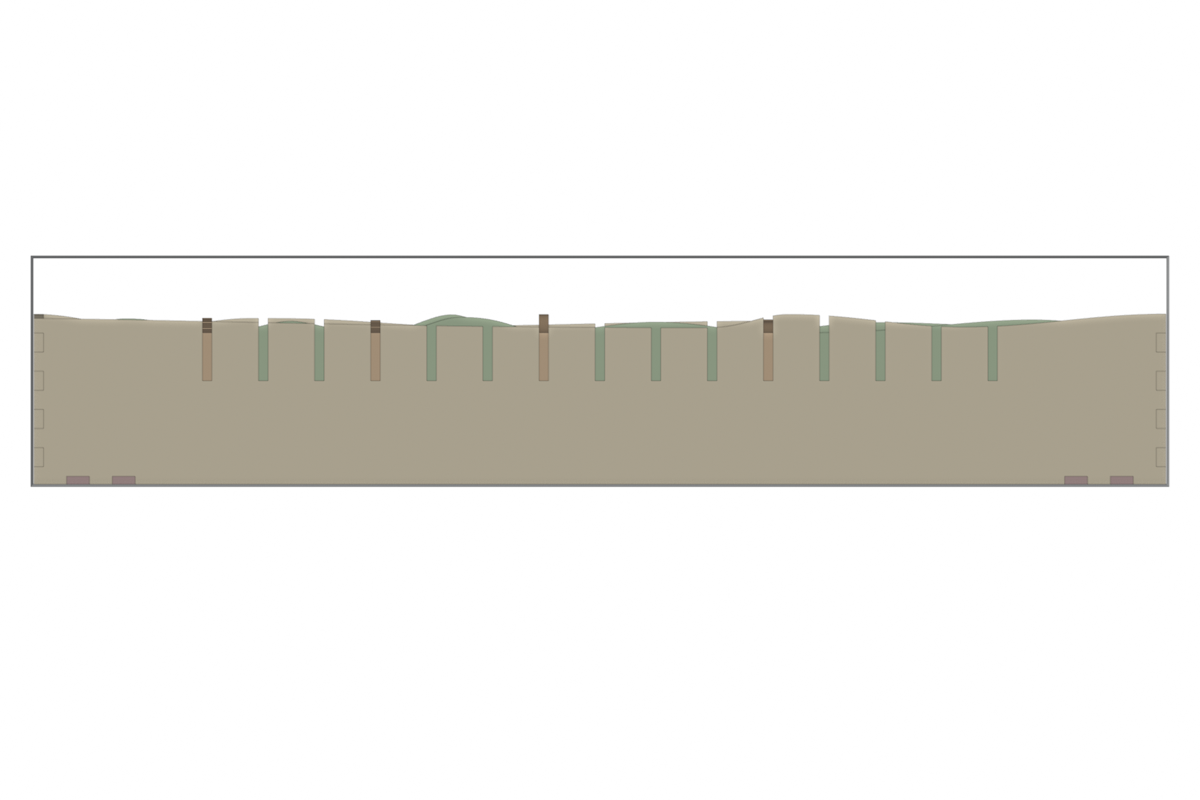
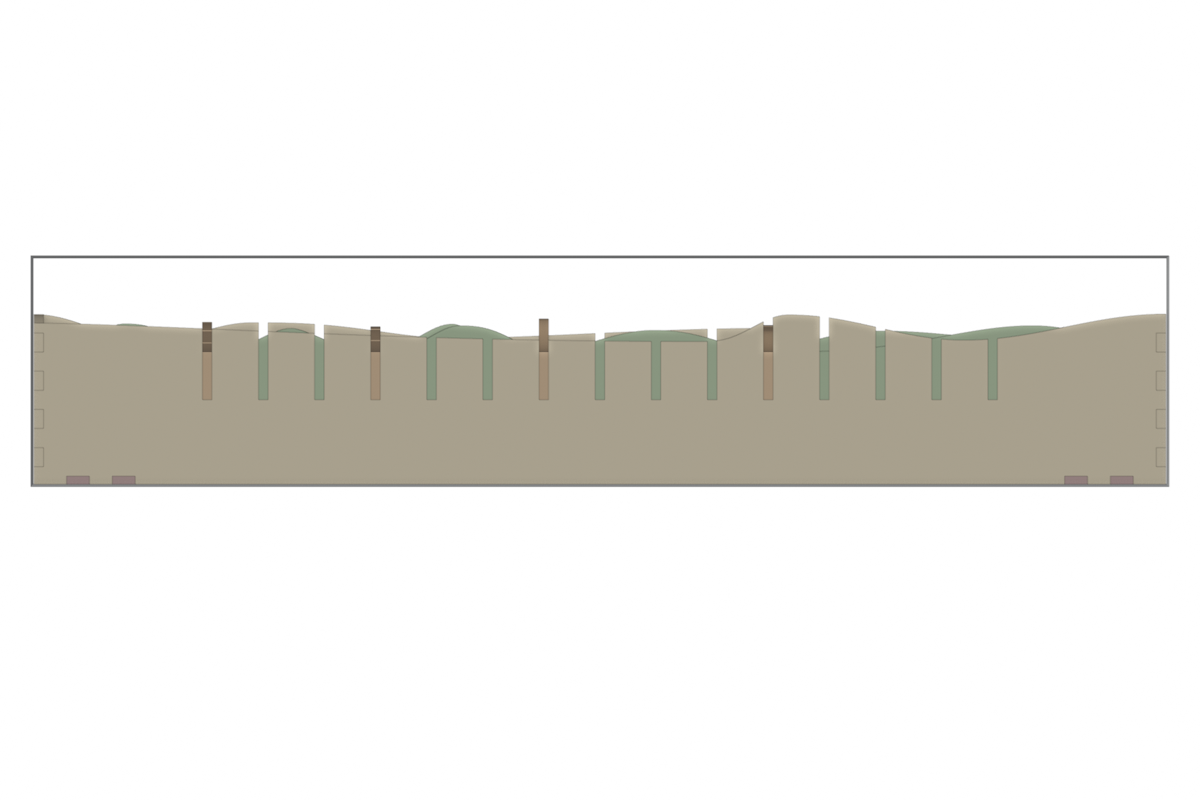
Drawer organizer: 1 in swing (tops 3.5 to 4.5) with a 30 degree slope cap
Claude-Session: https://claude.ai/code/session_01LZycd3S2pwbAJV8HQ6xUfH

diff --git a/lasercut/wave.py b/lasercut/wave.py
@@ -7,13 +7,15 @@ comes out different.
 """
 from __future__ import annotations
 
+import math
 import random
 
 from lasercut.panel import Point, Profile
 
 
 def wander(length: float, anchors: list[Point], lo: float, hi: float,
-           wavelength: float, rng: random.Random, min_spacing: float | None = None) -> Profile:
+           wavelength: float, rng: random.Random, min_spacing: float | None = None,
+           max_slope: float = math.tan(math.radians(30))) -> Profile:
     """A wavy profile along [0, length] passing exactly through `anchors` (x, height),
     which must include x=0 and x=length.
 
@@ -22,7 +24,8 @@ def wander(length: float, anchors: list[Point], lo: float, hi: float,
     divided by `wavelength`, and their parity is picked so the edge always turns
     away from an anchor rather than sitting flat beside it. Positions are random
     with at least `min_spacing` between features (default a fifth of the wavelength,
-    at least 2), which is what keeps the slopes gentle.
+    at least 2). Finally heights are pulled together wherever a rise or fall would be
+    steeper than `max_slope`, so the edge stays gentle however bold the range.
     """
     anchors = sorted(anchors)
     if anchors[0][0] != 0.0 or anchors[-1][0] != length:
@@ -31,7 +34,9 @@ def wander(length: float, anchors: list[Point], lo: float, hi: float,
     mid = (lo + hi) / 2
     pts: list[Point] = []
     skews: list[float] = []
+    fixed: set[int] = set()
     for (xa, ha), (xb, hb) in zip(anchors, anchors[1:]):
+        fixed.add(len(pts))
         pts.append((xa, ha))
         span = xb - xa
         first_high = ha < mid                    # turn away from the anchor
@@ -47,8 +52,44 @@ def wander(length: float, anchors: list[Point], lo: float, hi: float,
             h = rng.uniform(lo + 0.55 * (hi - lo), hi) if high else rng.uniform(lo, lo + 0.45 * (hi - lo))
             pts.append((x, h))
         skews += [rng.uniform(0.7, 1.45) for _ in range(n + 1)]
+    fixed.add(len(pts))
     pts.append(anchors[-1])
+    _limit_slopes(pts, skews, fixed, max_slope)
     return Profile(pts, skews)
+
+
+def peak_slope_factor(skew: float) -> float:
+    """How much steeper a skewed cosine segment gets at its steepest point than its
+    average slope. It is pi/2 for a symmetric segment and rises with the skew."""
+    best = 0.0
+    for i in range(1, 400):
+        u = i / 400
+        best = max(best, skew * u ** (skew - 1) * math.sin(math.pi * u ** skew))
+    return best * math.pi / 2
+
+
+def _limit_slopes(pts: list[Point], skews: list[float], fixed: set[int], max_slope: float) -> None:
+    """Pull neighbouring heights together until no segment is steeper than
+    `max_slope` at its steepest point. Anchors (indices in `fixed`) never move."""
+    factors = [peak_slope_factor(g) for g in skews]
+    for _ in range(20):
+        changed = False
+        for i in range(len(pts) - 1):
+            (x0, h0), (x1, h1) = pts[i], pts[i + 1]
+            excess = abs(h1 - h0) - max_slope / factors[i] * (x1 - x0)
+            if excess <= 1e-9 or (i in fixed and i + 1 in fixed):
+                continue
+            changed = True
+            sign = 1.0 if h1 > h0 else -1.0
+            if i in fixed:
+                pts[i + 1] = (x1, h1 - sign * excess)
+            elif i + 1 in fixed:
+                pts[i] = (x0, h0 + sign * excess)
+            else:
+                pts[i] = (x0, h0 + sign * excess / 2)
+                pts[i + 1] = (x1, h1 - sign * excess / 2)
+        if not changed:
+            return
 
 
 def _spread(xa: float, xb: float, n: int, spacing: float, rng: random.Random) -> list[float]:

diff --git a/projects/drawer-organizer/test_design.py b/projects/drawer-organizer/test_design.py
@@ -28,8 +28,8 @@ def test_pitch_snaps_so_wall_cells_match_divider_cells(design):
 
 
 def test_egg_crate_notches_are_complementary(design):
-    assert design.ear_top == 4.0 and design.slot_floor == 2.75
-    assert design.top_notch_depth == 1.75
+    assert design.ear_top == 3.5 and design.slot_floor == 2.25
+    assert design.top_notch_depth == 2.25
     assert design.top_notch_depth + design.bottom_notch_depth == design.height
 
 
@@ -49,7 +49,8 @@ def test_wavy_tops_follow_the_joint_rule(design):
                 round(walls["wall_back"](0), 6), round(walls["wall_back"](W), 6)}) == 4
     for w in by_kind["wall"]:
         f = w.outline.top_profile
-        assert low + 0.4 * 0.5 <= f(0) <= H and low + 0.4 * 0.5 <= f(w.outline.length) <= H
+        swing = design.cfg.wave_swing
+        assert low + 0.4 * swing <= f(0) <= H and low + 0.4 * swing <= f(w.outline.length) <= H
         assert low <= min(f(x / 8) for x in range(int(w.outline.length * 8))) <= H
         for n in w.outline.top:                                   # ears never stand proud
             assert f((n.start + n.end) / 2) >= low - 1e-9
@@ -62,6 +63,13 @@ def test_wavy_tops_follow_the_joint_rule(design):
         assert f(0) == low and f(r.outline.length) == low         # ends dip to the ear level
         for n in r.outline.bottom[1:-1]:                          # and so does every crossing
             assert f((n.start + n.end) / 2) == pytest.approx(low, abs=1e-9)
+    # nothing steeper than about 30 degrees anywhere, even with a 1 in swing
+    for p in design.panels:
+        f = getattr(p.outline, "top_profile", None)
+        if f is None:
+            continue
+        ys = [f(x / 16) for x in range(int(p.outline.length * 16) + 1)]
+        assert max(abs(b - a) for a, b in zip(ys, ys[1:])) <= (1 / 16) * 0.60
     # no two column dividers share a shape, and they differ in how many crests they have
     shapes = {tuple(c.outline.points()) for c in by_kind["column"]}
     assert len(shapes) == len(by_kind["column"])

diff --git a/tests/test_panel.py b/tests/test_panel.py
@@ -178,3 +178,14 @@ def test_side_notches_clip_to_a_low_corner():
     assert max(y for _, y in pts) <= 4.5 + 1e-9
     assert (0.25, 4.2) in pts and (9.75, 4.3) in pts       # clipped notch corners
     assert not any(abs(x) < 1e-9 and y > 4.2 + 1e-9 for x, y in pts)
+
+
+def test_wander_caps_the_slope():
+    import math
+    import random
+    from lasercut.wave import wander
+    # a 1 in range with features allowed 2 in apart would be steeper than 30 degrees unlimited
+    f = wander(12.0, [(0.0, 3.5), (12.0, 3.5)], 3.5, 4.5, 4.0, random.Random("steep"), min_spacing=2.0)
+    ys = [f(x / 32) for x in range(12 * 32 + 1)]
+    assert max(abs(b - a) for a, b in zip(ys, ys[1:])) <= (1 / 32) * math.tan(math.radians(31))
+    assert f(0) == 3.5 and f(12) == 3.5

diff --git a/projects/drawer-organizer/config.py b/projects/drawer-organizer/config.py
@@ -20,7 +20,7 @@ CONFIG = OrganizerConfig(
     column_pitch=1.5,
     row_pitch=2.5,
     notch_depth=1.25,
-    wave_swing=0.5,
+    wave_swing=1.0,
     wave_length=10.0,
     wave_seed=1,
     gusset_leg=3.0,

diff --git a/projects/drawer-organizer/README.md b/projects/drawer-organizer/README.md
@@ -66,7 +66,7 @@ All in `config.py`, all in inches.
 | `column_pitch` | 1.5 | target spacing of column-divider positions across the width; snapped, see below |
 | `row_pitch` | 2.5 | target spacing of row-divider positions along the depth; snapped |
 | `notch_depth` | 1.25 | how far a divider's ear engages its slot, measured from the low level |
-| `wave_swing` | 0.5 | rise and fall of the top edges, so tops run from 4.0 to 4.5; 0 for straight tops |
+| `wave_swing` | 1.0 | rise and fall of the top edges, so tops run from 3.5 to 4.5; 0 for straight tops |
 | `wave_length` | 10 | rough distance between crests; feature spacing never drops below a fifth of it or 2 in, which keeps slopes gentle |
 | `wave_seed` | 1 | reshuffles every panel's highs and lows |
 | `finger_width` | 0.5 | target; the real width makes an odd finger count |
@@ -81,10 +81,11 @@ negative is left, positive is right; row index 0 is the middle of the depth, neg
 toward the front. Grid positions that would run into a gusset are dropped, so with the defaults there
 are 15 column positions and 5 row positions (19 and 7 without gussets).
 
-**Slot depths with wavy tops.** The low level is `height - wave_swing` (4.0). Slot
-floors are `notch_depth` below that (2.75 above the drawer bottom), so a wall's slots
-are 1.25 to 1.75 in deep depending on where its wave is, and every divider's bottom
-notch is 2.75 in tall.
+**Slot depths with wavy tops.** The low level is `height - wave_swing` (3.5). Slot
+floors are `notch_depth` below that (2.25 above the drawer bottom), so a wall's slots
+are 1.25 to 2.25 in deep depending on where its wave is, and every divider's bottom
+notch is 2.25 in tall. Rises and falls are capped at about 30 degrees, so a bolder
+swing spreads features out rather than steepening them.
 
 **Pitch snapping.** A cell against a wall is bounded by one wall face and one divider
 face; a cell between dividers by two divider faces. For the same number of grid steps
